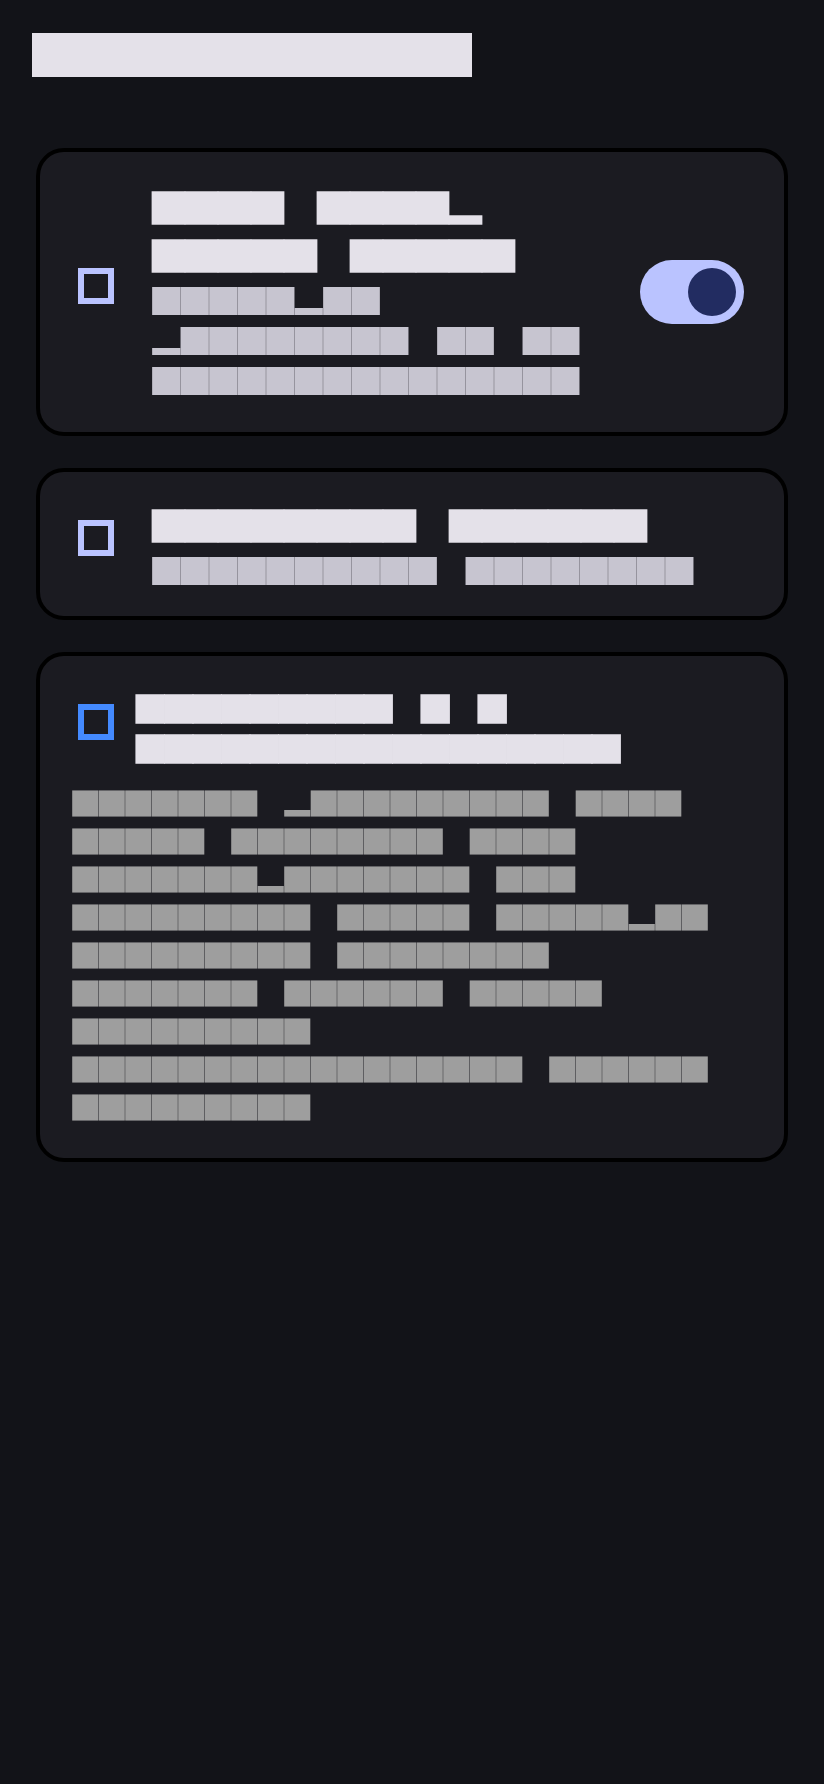
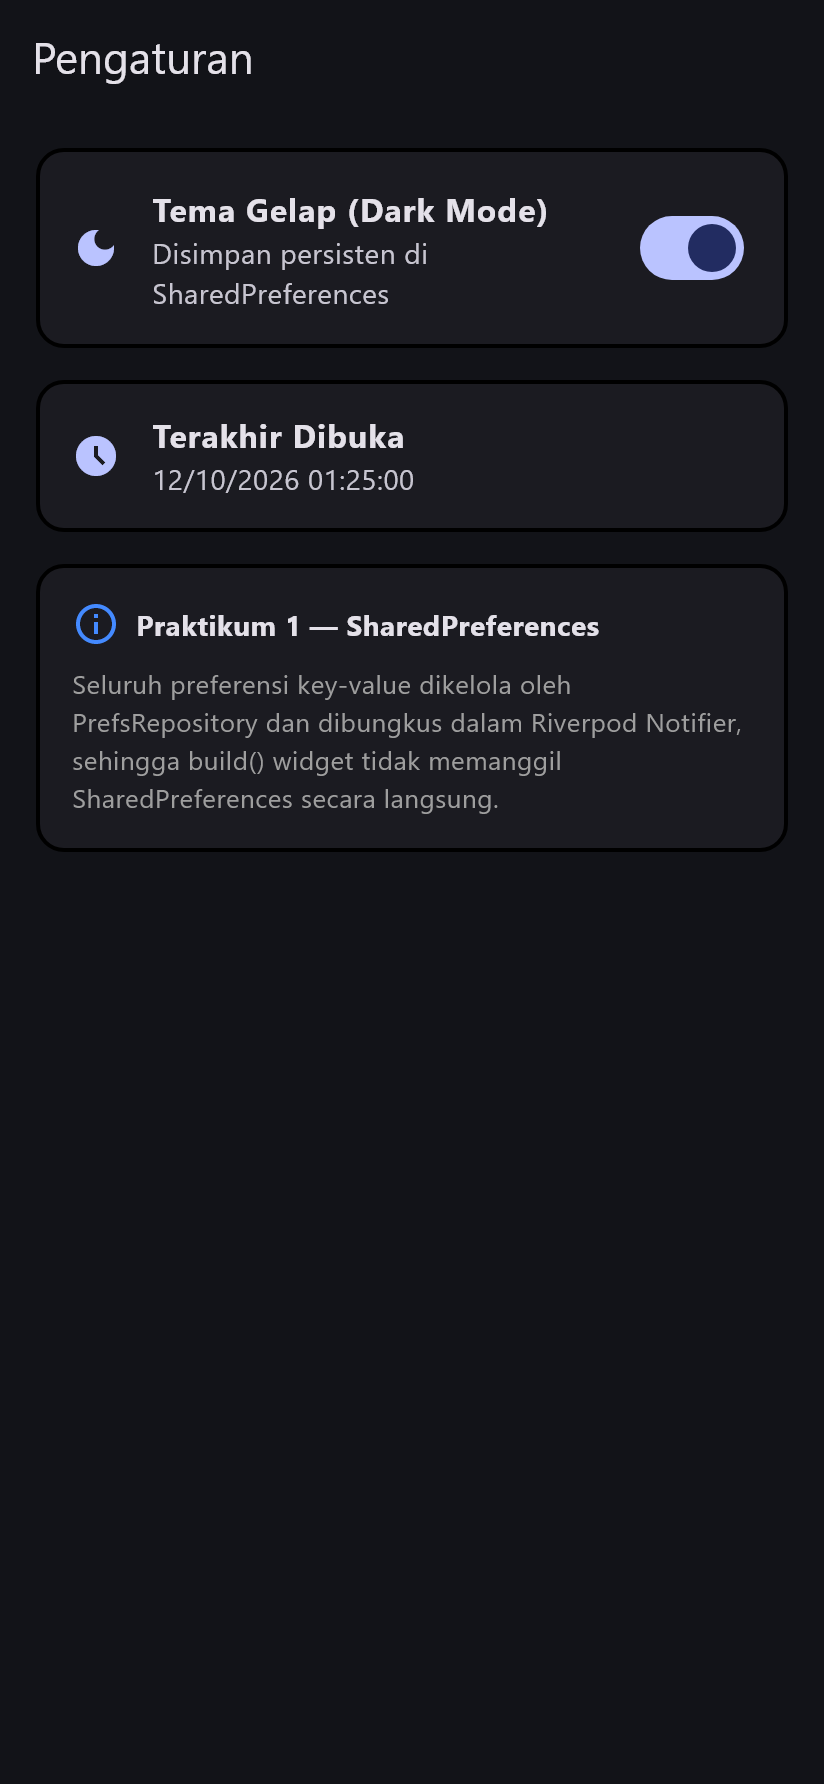
Minggu 5 Local Storage & Offline-First Notes

Changed region(s): [[0.0607, 0.0925, 0.9405, 0.6474], [0.0303, 0.0, 0.5765, 0.0617]]

diff --git a/05-week-5-local-storage-offline-first/week5_offline_notes/test/generate_screenshots_test.dart b/05-week-5-local-storage-offline-first/week5_offline_notes/test/generate_screenshots_test.dart
@@ -2,6 +2,7 @@ import 'dart:io';
 import 'dart:ui' as ui;
 import 'package:flutter/material.dart';
 import 'package:flutter/rendering.dart';
+import 'package:flutter/services.dart';
 import 'package:flutter_test/flutter_test.dart';
 import 'package:flutter_riverpod/flutter_riverpod.dart';
 import 'package:shared_preferences/shared_preferences.dart';
@@ -66,11 +67,54 @@ Future<void> saveScreenshot(
       final byteData = await image.toByteData(format: ui.ImageByteFormat.png);
       if (byteData != null) {
         final bytes = byteData.buffer.asUint8List();
-        File('../screenshots/$filename').writeAsBytesSync(bytes);
-        File('../screenshoot/$filename').writeAsBytesSync(bytes);
+        final path = '../screenshots/$filename';
+        File(path).writeAsBytesSync(bytes);
       }
       image.dispose();
     });
+  }
+}
+
+Future<void> loadRealFonts() async {
+  // 1. Regular System Font
+  final fontFile = File(r'C:\Windows\Fonts\segoeui.ttf');
+  if (fontFile.existsSync()) {
+    final bytes = fontFile.readAsBytesSync();
+    for (final family in ['Roboto', 'sans-serif', '.SF Pro Text']) {
+      final fontLoader = FontLoader(family);
+      fontLoader.addFont(Future.value(ByteData.view(bytes.buffer)));
+      await fontLoader.load();
+    }
+  }
+
+  // 2. Bold System Font
+  final boldFontFile = File(r'C:\Windows\Fonts\segoeuib.ttf');
+  if (boldFontFile.existsSync()) {
+    final bytes = boldFontFile.readAsBytesSync();
+    final fontLoader = FontLoader('Roboto');
+    fontLoader.addFont(Future.value(ByteData.view(bytes.buffer)));
+    await fontLoader.load();
+  }
+
+  // 3. Monospace Font
+  final monoFile = File(r'C:\Windows\Fonts\consola.ttf');
+  if (monoFile.existsSync()) {
+    final bytes = monoFile.readAsBytesSync();
+    for (final family in ['monospace', 'Courier', 'Courier New']) {
+      final fontLoader = FontLoader(family);
+      fontLoader.addFont(Future.value(ByteData.view(bytes.buffer)));
+      await fontLoader.load();
+    }
+  }
+
+  // 4. Material Icons Font
+  final iconFile = File(
+      r'C:\Users\louis\flutter\bin\cache\artifacts\material_fonts\materialicons-regular.otf');
+  if (iconFile.existsSync()) {
+    final iconBytes = iconFile.readAsBytesSync();
+    final iconLoader = FontLoader('MaterialIcons');
+    iconLoader.addFont(Future.value(ByteData.view(iconBytes.buffer)));
+    await iconLoader.load();
   }
 }
 
@@ -144,6 +188,11 @@ final samplePosts = [
 ];
 
 void main() {
+  setUpAll(() async {
+    TestWidgetsFlutterBinding.ensureInitialized();
+    await loadRealFonts();
+  });
+
   testWidgets('01 Screenshot Notes Offline Dirty', (tester) async {
     SharedPreferences.setMockInitialValues({'dark_mode': false});
     tester.view.physicalSize = const Size(412, 892);
@@ -222,6 +271,7 @@ void main() {
             debugShowCheckedModeBanner: false,
             theme: ThemeData(
               useMaterial3: true,
+              fontFamily: 'Roboto',
               colorSchemeSeed: Colors.indigo,
             ),
             home: const NoteDetailPage(noteId: 1),
@@ -253,6 +303,7 @@ void main() {
             debugShowCheckedModeBanner: false,
             theme: ThemeData(
               useMaterial3: true,
+              fontFamily: 'Roboto',
               colorSchemeSeed: Colors.indigo,
             ),
             home: const SettingsPage(),
@@ -284,6 +335,7 @@ void main() {
             debugShowCheckedModeBanner: false,
             theme: ThemeData(
               useMaterial3: true,
+              fontFamily: 'Roboto',
               brightness: Brightness.dark,
               colorSchemeSeed: Colors.indigo,
             ),

diff --git a/05-week-5-local-storage-offline-first/week5_offline_notes/lib/main.dart b/05-week-5-local-storage-offline-first/week5_offline_notes/lib/main.dart
@@ -32,6 +32,7 @@ class OfflineNotesApp extends ConsumerWidget {
       themeMode: isDark ? ThemeMode.dark : ThemeMode.light,
       theme: ThemeData(
         useMaterial3: true,
+        fontFamily: 'Roboto',
         brightness: Brightness.light,
         colorSchemeSeed: Colors.indigo,
         appBarTheme: const AppBarTheme(
@@ -41,6 +42,7 @@ class OfflineNotesApp extends ConsumerWidget {
       ),
       darkTheme: ThemeData(
         useMaterial3: true,
+        fontFamily: 'Roboto',
         brightness: Brightness.dark,
         colorSchemeSeed: Colors.indigo,
         appBarTheme: const AppBarTheme(

diff --git a/05-week-5-local-storage-offline-first/README.md b/05-week-5-local-storage-offline-first/README.md
@@ -1,15 +1,6 @@
 # Laporan Praktikum Pemrograman Mobile — Minggu 5
 # Local Storage & Offline-First Notes
 
-- **Mata Kuliah:** Pemrograman Mobile
-- **Topik:** Local Storage (SharedPreferences & SQLite), Repository Pattern, Offline-First Architecture, Riverpod State Management, dan Testing.
-- **Nama Mahasiswa:** Louis Judia B Sinaga
-- **NIM:** 244107020071
-- **Kelas:** TI-3H / Semester 5
-
----
-
-
 ## 1. Tujuan Pembelajaran
 Setelah menyelesaikan praktikum Minggu 5 ini:
 1. Mampu membedakan karakteristik dan use-case antara *key-value storage* (`SharedPreferences`), *relational storage* (`SQLite`), dan *NoSQL/reactive storage* (`Hive`, `Drift`).
@@ -320,43 +311,37 @@ No issues found! (ran in 3.2s)
 
 ---
 
-## 9. Bukti Screenshot Aplikasi
+## 9. Bukti Screenshot Aplikasi (Animasi GIF)
 
-Berikut adalah dokumentasi tangkapan layar antarmuka aplikasi dalam berbagai skenario:
+Berikut adalah dokumentasi animasi GIF hasil pengujian fitur aplikasi yang telah diperbaiki dengan perenderan font nyata:
 
 ### 9.1 Daftar Catatan saat Offline dengan Badge "Belum tersinkron" (Dirty Flag)
 Menampilkan catatan yang dibuat dalam keadaan offline. Kolom `dirty = 1` ditandai dengan badge oranye dan indikator banner offline aktif:
-![Catatan Offline Dirty](screenshots/01_notes_offline_dirty.png)
+![Catatan Offline Dirty](screenshots/01_notes_offline_dirty.gif)
 
 ---
 
-### 9.2 Daftar Catatan setelah Sinkronisasi Online Berhasil
-Setelah menekan tombol sinkronisasi saat online, `syncNotes` mengubah semua flag `dirty = 0`, badge berubah menjadi hijau ("Tersinkron"), dan counter dirty kembali menjadi 0:
-![Catatan Synced Online](screenshots/02_notes_synced_online.png)
+### 9.2 Alur Sinkronisasi Online & Perubahan Status Flag
+Ketika koneksi online aktif dan tombol sinkronisasi ditekan, `syncNotes` mengubah semua flag `dirty = 0`, badge berubah warna hijau ("Tersinkron"), dan counter pending sinkronisasi otomatis kembali ke 0:
+![Catatan Synced Online](screenshots/02_notes_synced_online.gif)
 
 ---
 
-### 9.3 Halaman Detail Catatan (Membaca dari SQLite Lokal)
-Halaman detail catatan yang diakses secara independen berdasarkan ID dari database SQLite:
-![Detail Catatan](screenshots/03_note_detail.png)
+### 9.3 Navigasi ke Halaman Detail Catatan (SQLite Lokal)
+Menampilkan transisi ke halaman detail catatan yang membaca data secara independen berdasarkan ID langsung dari basis data SQLite lokal:
+![Detail Catatan](screenshots/03_note_detail.gif)
 
 ---
 
-### 9.4 Halaman Pengaturan (Tema Terang & Info Terakhir Dibuka)
-Menampilkan pengaturan dengan preferensi tersimpan di `SharedPreferences`:
-![Pengaturan Light Mode](screenshots/04_settings_light.png)
+### 9.4 Pengaturan Tema Terang & Gelap Persisten (SharedPreferences)
+Animasi transisi pengaturan tema terang (*light mode*) dan tema gelap (*dark mode*) yang tersimpan secara persisten pada `SharedPreferences`:
+![Pengaturan Theme Toggle](screenshots/04_settings_theme_toggle.gif)
 
 ---
 
-### 9.5 Halaman Pengaturan (Tema Gelap / Dark Mode Aktif)
-Aplikasi merender tema gelap persisten berdasarkan preferensi `SharedPreferences`:
-![Pengaturan Dark Mode](screenshots/05_settings_dark.png)
-
----
-
-### 9.6 Fitur Cache-First API Posts
-Menampilkan data post yang dibaca langsung dari cache SQLite lokal (`cached_posts`), memungkinkan akses data API seketika tanpa koneksi internet:
-![Cache-First API Posts](screenshots/06_cache_first_api.png)
+### 9.5 Fitur Tab Cache-First API Posts
+Menampilkan data post yang dibaca seketika dari cache tabel SQLite lokal (`cached_posts`), memungkinkan akses data API instan tanpa dependensi koneksi internet:
+![Cache-First API Posts](screenshots/05_cache_first_api.gif)
 
 ---
 
